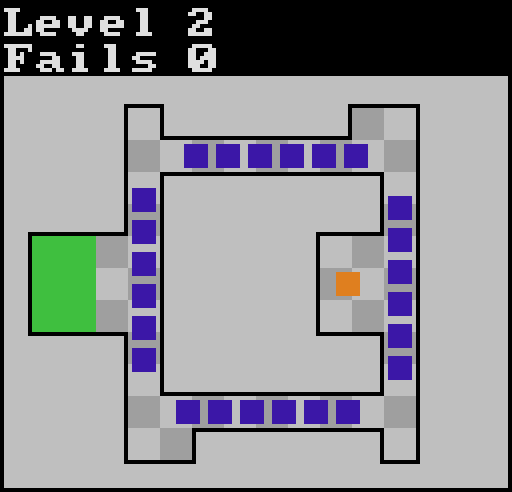
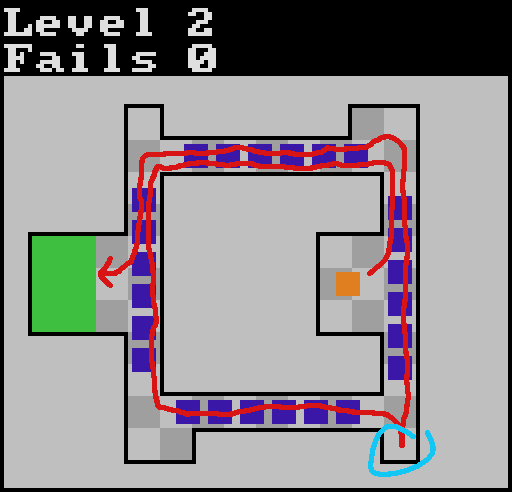
Final image editing

Changed region(s): [[0.1875, 0.2744, 0.875, 0.9756]]

diff --git a/site/posts/avhg-thoughts.md b/site/posts/avhg-thoughts.md
@@ -46,28 +46,27 @@ While I didn't want to have too much distracting from the core gameplay, there w
 <figure>
     <picture>
 	<source srcset="/images/hello_kitty.avif" type="image/avif" />
-	<img src="/images/hello_kitty.jpg" />
+	<img alt="The famous Hello Kitty edition GameTank, at its home of HackManhattan. To its side are a number of GameTank cartriges, including the final AVHG cartridge and one from earlier in development" src="/images/hello_kitty.jpg" />
     </picture>
     <figcaption>
-The famous Hello Kitty edition GameTank, at its home of HackManhattan.
-To its side are a number of GameTank cartriges, including the final AVHG cartridge and one from earlier in development.
+The famous Hello Kitty edition GameTank, at its home of HackManhattan. To its side are a number of GameTank cartriges, including the final AVHG cartridge and one from earlier in development
     </figcaption>
 </figure>
 
 Another feature added to increase replayability was the secret system. If you want to go in to AVHG totally blind I might recommend skipping this paragraph! Each level has a "secret" hidden in a relatively difficult to access location. These are invisible but play a noise and change the color of the goal when passed over. Players who collect each level's secret receive a special message at the end of the game and have their score entered on a secret score table. This was developed as an economic way to increase the depth of the game and allow players who no longer struggle with the base game to have a sort of hard mode. Secrets can also help to recontextualize levels. I'm especially proud of how level two's secret reconextualizes much of the level.
 
 <figure>
-    <img src="/images/level_two_path.png" />
+    <img alt="Level two with the path required to collect the secret drawn. The player is forced to navigate the level in counterclockwise loop, so the secret forces them to pass over the level's goal. Without the secret the entire bottom half of the level would be extraneous" src="/images/level_two_path.png" />
     <figcaption>
-    Level two with the path required to collect the secret drawn. The path is in red and the location of the secret is in cyan. The player is forced to navigate the level in counterclockwise loop, so the secret forces them to pass over the level's goal. Without the secret the entire bottom half of the level would be extraneous.
+    Level two with the path required to collect the secret drawn. The path is in red and the location of the secret is in cyan. The player is forced to navigate the level in counterclockwise loop, so the secret forces them to pass over the level's goal. Without the secret the entire bottom half of the level would be extraneous
     </figcaption>
 </figure>
 
 A major failing of the level design is the difficulty of level one. Many players bounced off the game after struggling repeatedly on this level. I think that level one is a fair bit more difficult than level two, but I didn't want to swap the levels for a few reasons. Level one teaches more of the core skills required to beat the game, whereas level two basically only teaches velocity control. I often say that if you can clear level one, you can beat the rest of the game, and I believe this. Level one is also fairly similar in theme to level three, so I would like to separate them to keep the gameplay feeling fresh. I would like to add an easier level to the game before level one so that players can better acquaint themselves with the basic controls of the character. I did make the menu a level but it doesn't offer much challenge at all or offer enough freedom of movement.
 
 <figure>
-    <video class="bordered" autoplay loop src="/images/menu_level.mp4" />
-    <figcaption>Menu level</figcaption>
+    <video aria-describedby="menu_level_desc" class="bordered" autoplay loop tabindex="-1" src="/images/menu_level.mp4" />
+    <figcaption id="menu_level_desc">The menu level. Once the player elects to start the game the player is spawned</figcaption>
 </figure>
 
 General programming
@@ -84,13 +83,17 @@ I targetted 60 frames per second with AVHG. Once I understood how to best render
 
 One technique I made fairly heavy use of was "batching" enemies. For instance, in the image below the eight enemies (in blue) are represented as two groups of four enemies each. For the rest of this piece I'll describe the batched groups of enemies as entities (these are not the same as entities in an ECS sense!). This makes rendering, collision detection, and updating the enemies much faster. They also take up much less RAM, although RAM was never a major bottleneck.
 
-__? Image level one__
+<figure>
+    <img alt="Level one rendered" src="/images/level_one.png" />
+    <figcaption>Level one rendered</figcaption>
+</figure>
+
 
 In level two, the 24 enemies which circle the level are actually four distinct entities each comprised of six enemies. They move in one direction and "teleport" back to the start of their track when they finish moving across it. I've given each entity bellow a distinct color to make it easy to visualize the different groups.
 
 <figure>
-    <video class="bordered" autoplay loop src="/images/level_two_weird_colors.mp4" />
-    <figcaption>Level two with enemies that alternate between normal colors and distinct colors for each entity.</figcaption>
+    <video aria-describedby="level_two_weird_colors_desc" class="bordered" autoplay loop tabindex="-1" src="/images/level_two_weird_colors.mp4" />
+    <figcaption id="level_two_weird_colors_desc">Level two with enemies that alternate between normal colors and distinct colors for each entity.</figcaption>
 </figure>
 
 Level format
@@ -149,7 +152,7 @@ const char level_three_name[] = "Level 3";
 which corresponds to the following level
 
 <figure>
-    <img src="/images/level_three_normal.png" />
+    <img alt="Level three rendered" src="/images/level_three_normal.png" />
     <figcaption>Level three rendered</figcaption>
 </figure>
 
@@ -162,7 +165,7 @@ I definitely think that creating a script to generate levels from some other for
 A note on rendering functions
 -----------------------------
 
-In [`gt/drawing_funcs.c`](https://github.com/clydeshaffer/gametank_sdk/blob/main/src/gt/drawing_funcs.c) there are a number of helpful drawing functions such as `draw_box`.
+In `gt/drawing_funcs.c` there are a number of helpful drawing functions such as `draw_box`.
 
 ```c
 void draw_box(unsigned char x, unsigned char y, unsigned char w, unsigned char h, unsigned char c) {
@@ -278,7 +281,7 @@ A lot of thought went into reducing the amount I needed to render on every frame
 The decor sits on top of the zeroes outside the arena and adds a nice trim to the level. Notice how much less finished level three looks without the decor.
 
 <figure>
-    <img src="/images/level_three_sans_decor.png" />
+    <img alt="Level three rendered without decor" src="/images/level_three_sans_decor.png" />
     <figcaption>Level three rendered without "decor"</figcaption>
 </figure>
 
@@ -304,7 +307,7 @@ for (i = 1; i <= tilemap_decor[0];) {
 ```
 
 <figure>
-    <img src="/images/level_three_outlined_decor.png" />
+    <img alt="Level three rendered with different decor boxes outlined in different colors" src="/images/level_three_outlined_decor.png" />
     <figcaption>Level three rendered with different decor boxes outlined in different colors</figcaption>
 </figure>
 
@@ -313,7 +316,7 @@ It would not be particularly difficult to generate the decor values given a tile
 With all of that considered, the only area outside the main playfield that needs to update during normal gameplay is the fail count (technically I also repaint the word "Fails" for code simplicity), which is updated the two frames following a player hitting an enemy. As such the amount of redraw needed on any given frame looks like this:
 
 <figure>
-    <img src="/images/level_three_redraw.png" />
+    <img alt="Level three rendered with areas highlighted corresponding to how often they need to be redrawn" src="/images/level_three_redraw.png" />
     <figcaption>Level three rendered with areas highlighted corresponding to how often they need to be redrawn. Red highlighted regions are redrawn every update. Blue highlighted regions are redrawn after a player fails. Areas not highlighted are only redrawn when a level is first loaded.</figcaption>
 </figure>
 
@@ -401,7 +404,7 @@ There's also a channel on the GameTank discord for sharing sound effects, aptly 
 I've put a fair amount of effort into ensuring that the data is relatively compressed to ensure that URLs don't get too long. If you're interested, please check out the [encoder](https://github.com/nickgirardo/gt-sound-sculptor/blob/main/src/encode.ts) and the [decoder](https://github.com/nickgirardo/gt-sound-sculptor/blob/main/src/decode.ts). There are a few minor features I'd like to add to the Sound Sculptor, but it serves its purposes for now.
 
 <figure>
-    <img src="/images/sound_sculptor.png" />
+    <img alt="An image of Sound Sculptor focusing on the third and fourth operators" src="/images/sound_sculptor.png" />
     <figcaption>An image of Sound Sculptor focusing on the third and fourth operators</figcaption>
 </figure>
 
@@ -412,8 +415,8 @@ Debugging and Tooling
 Debugging issues was probably the most difficult aspect of developing for the GameTank. Forget `gdb`, even `printf` debugging is off the table. If your building a game for the GameTank, you'll probably be running it in the [GameTank Emulator](https://github.com/clydeshaffer/GameTankEmulator). The GameTank Emulator is fairly functional for running games, but leaves a bit to be desired in terms of terms of debugging. When I started working on AVHG, the GameTank Emulator's code stepper didn't make use of labels or format instructions well.
 
 <figure>
-    <img src="/images/stepper_before_and_after.png" />
-    <figcaption>A before and after image of the debugger's code stepper. Notice the label names on the jump instructions.</figcaption>
+    <img alt="A before and after image of the debugger's code stepper. Notice the label names on the jump instructions" src="/images/stepper_before_and_after.png" />
+    <figcaption>A before and after image of the debugger's code stepper. Notice the label names on the jump instructions</figcaption>
 </figure>
 
 Improving the emulator was a nice diversion, and improving the tool wasn't particularly difficult. I'm glad that things will be slightly nicer for future gamedevs. If you'd like to dip your feet into emulator development, contributing to the GameTank Emulator could be a good place to start. Most of my earlier contributions were UI related. All of the UI for the GameTank Emulator is implemented with [Dear Imgui](https://github.com/ocornut/imgui), which I hadn't used before but found very easy to work in. There are a few larger features which are currently planned but not yet implemented such as save states and TAS replay functionality as well.
@@ -476,10 +479,10 @@ I had a great time at both of these events, and would love to go to more similar
 <figure>
     <picture>
 	<source srcset="/images/liretro.heic" type="image/heic" />
-	<img src="/images/liretro.jpg" />
+	<img alt="The GameTank Booth at LIRetro, featuring Burdock in front of the AVHG setup" src="/images/liretro.jpg" />
     </picture>
     <figcaption>
-    The GameTank Booth at LIRetro, featuring [Burdock](https://dwbrite.com) in front of the AVHG setup.
+    The GameTank Booth at LIRetro, featuring [Burdock](https://dwbrite.com) in front of the AVHG setup
     </figcaption>
 </figure>
 
@@ -509,6 +512,6 @@ Is developing a game for the GameTank a project you should undertake? While I ca
 [Source](https://github.com/nickgirardo/gt-a-very-hard-game)
 
 <figure>
-    <img src="/images/ty4reading.png" />
+    <img alt="Thanks for reading!" src="/images/ty4reading.png" />
     <figcaption>Thanks!</figcaption>
 </figure>
